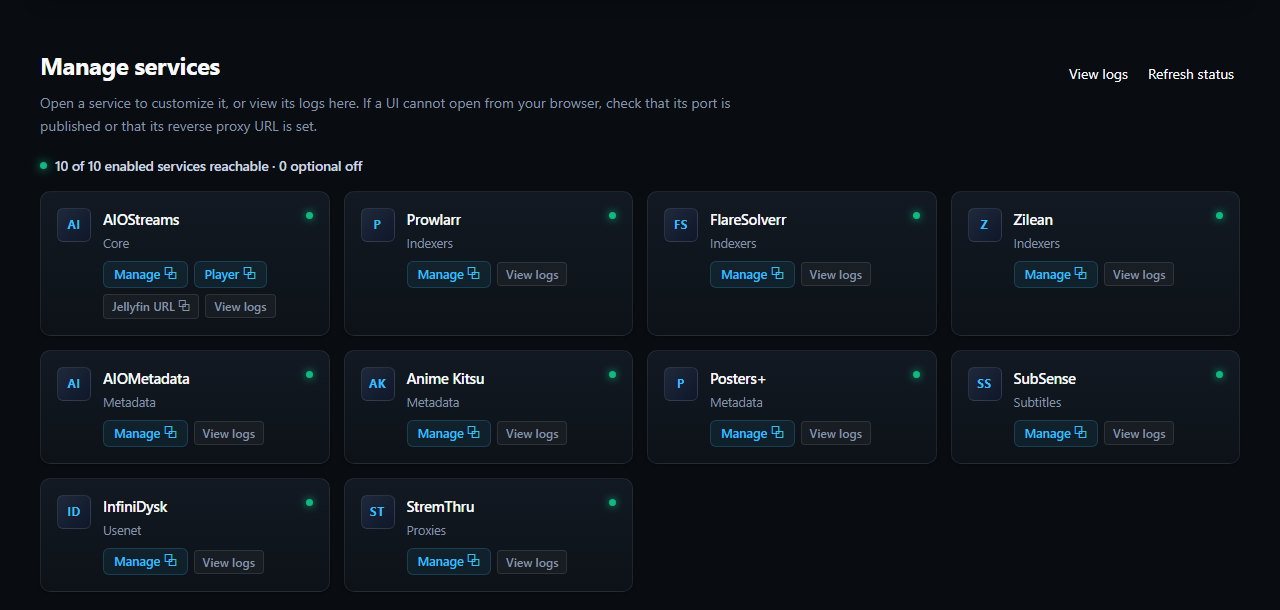
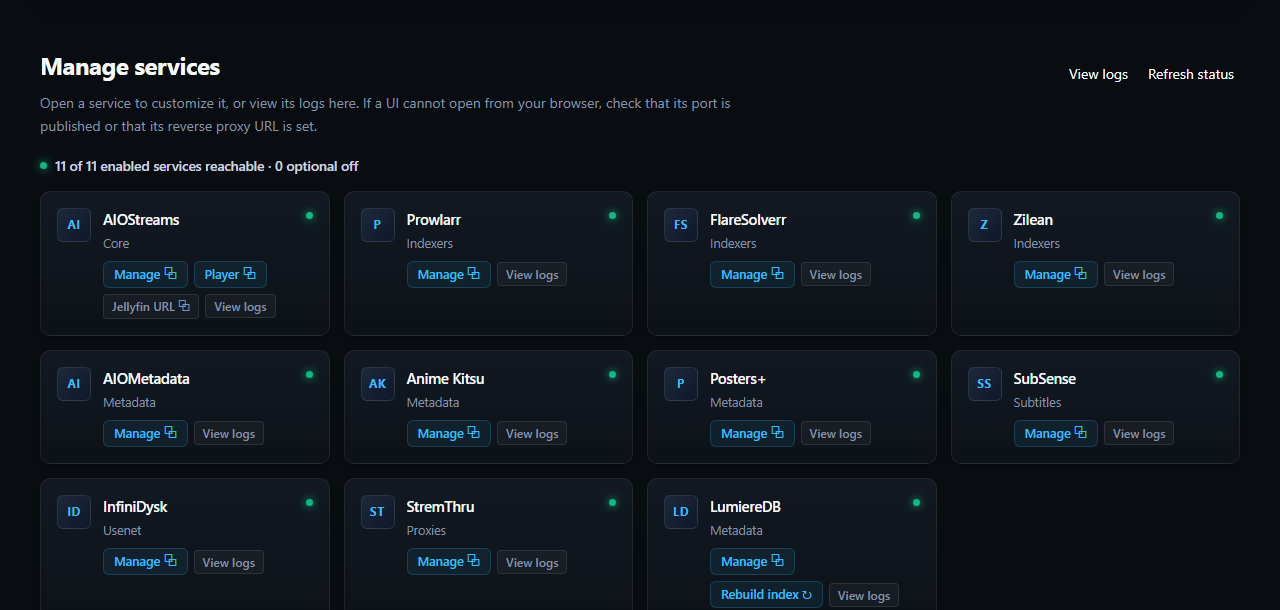
feat(portal): add LumiereDB service card with rebuild action and configure Tenrai Jikan API default

Changed region(s): [[0.5, 0.8098, 0.7188, 0.9967], [0.0312, 0.2492, 0.2812, 0.2803], [0.6875, 0.8098, 0.7188, 0.841]]

diff --git a/assets/app.js b/assets/app.js
@@ -687,6 +687,36 @@ async function refreshServices() {
       });
       actions.append(qcBtn);
     }
+    if (service.host === 'lumiere-db' || service.name === 'LumiereDB') {
+      const rebuildBtn = document.createElement('button');
+      rebuildBtn.type = 'button';
+      rebuildBtn.className = 'service-embed-btn';
+      rebuildBtn.textContent = 'Rebuild index ↻';
+      rebuildBtn.title = 'Trigger immediate IMDb dataset sync and index rebuild';
+      rebuildBtn.setAttribute('aria-label', 'Rebuild LumiereDB search index');
+      rebuildBtn.addEventListener('click', async (e) => {
+        e.stopPropagation();
+        rebuildBtn.disabled = true;
+        rebuildBtn.textContent = 'Rebuilding…';
+        try {
+          const res = await api('/api/lumiere/rebuild', 'POST');
+          if (res && res.success) {
+            showToast('LumiereDB rebuild triggered. Checking progress…');
+          } else {
+            showToast('Rebuild: ' + (res?.error || res?.output || 'Triggered'));
+          }
+        } catch (err) {
+          showToast('Failed to trigger rebuild: ' + err.message);
+        } finally {
+          setTimeout(() => {
+            rebuildBtn.disabled = false;
+            rebuildBtn.textContent = 'Rebuild index ↻';
+            refreshServices();
+          }, 3000);
+        }
+      });
+      actions.append(rebuildBtn);
+    }
     const containerKey = (service.host || service.name).toLowerCase().replace(/[^a-z0-9_-]/g, '');
     const logBtn = document.createElement('button');
     logBtn.type = 'button';

diff --git a/docker/all-in-one/portal_server.py b/docker/all-in-one/portal_server.py
@@ -122,7 +122,7 @@ def launch_setup():
 HOST_PORT_MAP = {
     "aiostreams": 3001, "aiometadata": 4005, "zilean": 8181,
     "prowlarr": 9696, "flaresolverr": 8191, "anime-kitsu": 7005, "postersplus": 9039,
-    "subsense": 3100, "infinidysk": 3005, "stremthru": 8080
+    "subsense": 3100, "infinidysk": 3005, "stremthru": 8080, "lumiere-db": 8000
 }
 SERVICE_UI_PATHS = {
     "aiostreams": "/stremio/configure", "aiometadata": "/configure",
@@ -144,6 +144,7 @@ INTERNAL_SERVICE_TARGETS = {
     "stremthru": ("stremthru", 8080, 8080),
     "anime-kitsu": ("anime-kitsu", 7000, 7005),
     "infinidysk": ("infinidysk", 3000, 3005),
+    "lumiere-db": ("lumiere-db", 8000, 8000),
 }
 
 class NoRedirectHandler(urllib.request.HTTPRedirectHandler):
@@ -161,6 +162,7 @@ def probe_integration(item):
         "aiometadata": {"core", "scrapers", "all"},
         "postersplus": {"core", "scrapers", "all"},
         "subsense": {"core", "scrapers", "all"},
+        "lumiere-db": {"core", "scrapers", "all"},
     }
     enabled = host == "aiostreams" or bool(profiles & service_profiles.get(host, {"scrapers", "all"}))
     if host == "infinidysk" and env_vars.get("USENET_ENABLED", "false") != "true" and env_vars.get("STREAMING_MODE", "debrid") == "debrid":
@@ -2060,6 +2062,26 @@ button:hover {{ background: #0369a1; }}
             return
         elif path == "/api/backups/prune":
             self.handle_api_backups_prune()
+            return
+        elif path == "/api/lumiere/rebuild":
+            if self.auth_enabled and not self.is_authenticated():
+                self.send_auth_required()
+                return
+            try:
+                res = subprocess.run(
+                    ["docker", "exec", "lumiere-db", "/app/api", "rebuild"],
+                    capture_output=True, text=True, timeout=15
+                )
+                output = (res.stdout or res.stderr or "Rebuild command executed").strip()
+                self.send_response(200)
+                self.send_header("Content-Type", "application/json")
+                self.end_headers()
+                self.wfile.write(json.dumps({"success": res.returncode == 0, "output": output}).encode("utf-8"))
+            except Exception as e:
+                self.send_response(500)
+                self.send_header("Content-Type", "application/json")
+                self.end_headers()
+                self.wfile.write(json.dumps({"success": False, "error": str(e)}).encode("utf-8"))
             return
 
         if self.check_proxy_referer_fallback(path, url_parts.query):

diff --git a/tests/test_portal.py b/tests/test_portal.py
@@ -36,7 +36,7 @@ class PortalTests(unittest.TestCase):
         result=json.loads(body);self.assertTrue(result['USENET_PASSWORD_SAVED']);self.assertEqual(result['USENET_USER'],'fixture-user')
 
     def test_integration_probes_use_container_ports(self):
-        self.assertEqual(portal.APPLICATION_SERVICE_COUNT, 10)
+        self.assertEqual(portal.APPLICATION_SERVICE_COUNT, 11)
         expected = {
             "anime-kitsu": 7000,
             "postersplus": 8000,

diff --git a/init/service_inventory.py b/init/service_inventory.py
@@ -11,6 +11,7 @@ INTEGRATIONS = (
     ("SubSense", "subsense", 3100, "Subtitles"),
     ("InfiniDysk", "infinidysk", 3000, "Usenet"),
     ("StremThru", "stremthru", 8080, "Proxies"),
+    ("LumiereDB", "lumiere-db", 8000, "Metadata"),
 )
 
 TCP_PORTS = {host: port for _, host, port, _ in INTEGRATIONS}
